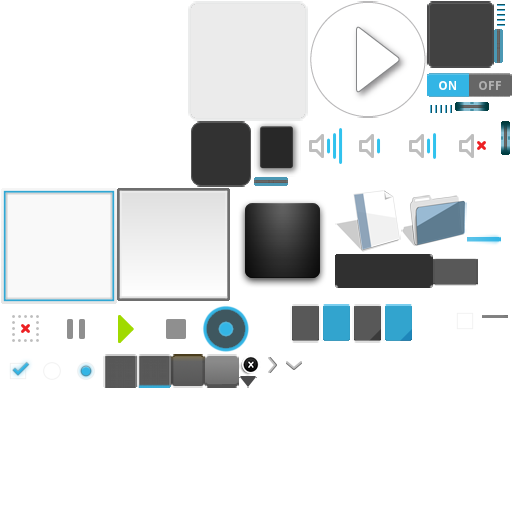
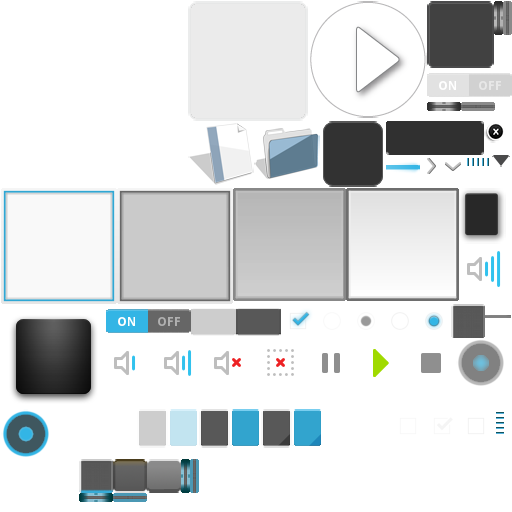
uix: `disabled` property for base widgets

diff --git a/kivy/uix/textinput.py b/kivy/uix/textinput.py
@@ -170,7 +170,7 @@ class TextInputCutCopyPaste(Bubble):
     # copy/cut/paste happen.
 
     textinput = ObjectProperty(None)
-    '''
+    ''' Holds the ref to the TextInput this Bubble belongs to.
     '''
 
     but_cut = ObjectProperty(None)
@@ -819,6 +819,8 @@ class TextInput(Widget):
         Clock.schedule_once(lambda dt: self.select_all())
 
     def on_touch_down(self, touch):
+        if self.disabled:
+            return
         touch_pos = touch.pos
         if not self.collide_point(*touch_pos):
             if self._keyboard_mode == 'multi':
@@ -986,7 +988,7 @@ class TextInput(Widget):
                 Clock.schedule_once(partial(self.on_focus, self, value), 0)
             return
 
-        editable = ((not self.readonly) or
+        editable = (not (self.readonly or self.disabled) or
                     (platform() in ('win', 'linux', 'macosx') and
                     self._keyboard_mode == 'system'))
 
@@ -1901,6 +1903,16 @@ class TextInput(Widget):
     default to 'atlas://data/images/defaulttheme/textinput'
     '''
 
+    background_disabled_normal = StringProperty(
+        'atlas://data/images/defaulttheme/textinput_disabled')
+    '''Background image of the TextInput when disabled'.
+
+    .. versionadded:: 1.7.0
+
+    :data:`background_disabled_normal` is a :class:`~kivy.properties.StringProperty`,
+    default to 'atlas://data/images/defaulttheme/textinput_disabled'
+    '''
+
     background_active = StringProperty(
         'atlas://data/images/defaulttheme/textinput_active')
     '''Background image of the TextInput when it's in focus'.
@@ -1909,6 +1921,16 @@ class TextInput(Widget):
 
     :data:`background_active` is a :class:`~kivy.properties.StringProperty`,
     default to 'atlas://data/images/defaulttheme/textinput_active'
+    '''
+
+    background_disabled_active = StringProperty(
+        'atlas://data/images/defaulttheme/textinput_disabled_active')
+    '''Background image of the TextInput when it's in focus' and disabled.
+
+    .. versionadded:: 1.7.0
+
+    :data:`background_disabled_active` is a :class:`~kivy.properties.StringProperty`,
+    default to 'atlas://data/images/defaulttheme/textinput_disabled_active'
     '''
 
     background_color = ListProperty([1, 1, 1, 1])
@@ -1927,6 +1949,15 @@ class TextInput(Widget):
 
     :data:`foreground_color` is a :class:`~kivy.properties.ListProperty`,
     default to [0, 0, 0, 1] #Black
+    '''
+
+    disabled_foreground_color = ListProperty([0, 0, 0, .5])
+    '''Current color of the foreground, in (r, g, b, a) format when disabled.
+
+    .. versionadded:: 1.7.0
+
+    :data:`disabled_foreground_color` is a :class:`~kivy.properties.ListProperty`,
+    default to [0, 0, 0, 5] # 50% translucent Black
     '''
 
     use_bubble = BooleanProperty(not _is_desktop)
@@ -2065,6 +2096,16 @@ class TextInput(Widget):
 
     .. versionadded:: 1.7.0
     '''
+
+    disabled = BooleanProperty(False)
+    '''indicates whether this widget can interact with input or not
+
+    .. versionadded:: 1.7.0
+
+    :data:`disabled` is a :class:`~kivy.properties.BooleanProperty`,
+    default to False.
+    '''
+
 
 if __name__ == '__main__':
     from kivy.app import App

diff --git a/kivy/uix/splitter.py b/kivy/uix/splitter.py
@@ -49,8 +49,8 @@ if self.horizontal else 'path to vertical pressed image'
 __all__ = ('Splitter', )
 
 from kivy.uix.button import Button
-from kivy.properties import OptionProperty, NumericProperty, ObjectProperty,\
-    ListProperty
+from kivy.properties import (OptionProperty, NumericProperty, ObjectProperty,
+                            ListProperty, BooleanProperty)
 from kivy.uix.boxlayout import BoxLayout
 
 
@@ -73,6 +73,15 @@ class Splitter(BoxLayout):
     .. versionchanged:: 1.6.0
         Added `on_press` and `on_release` events
 
+    '''
+
+    disabled = BooleanProperty(False)
+    '''indicates whether this widget can interact with input or not
+
+    .. versionadded:: 1.7.0
+
+    :data:`disabled` is a :class:`~kivy.properties.BooleanProperty`,
+    default to False.
     '''
 
     border = ListProperty([4, 4, 4, 4])
@@ -138,6 +147,12 @@ class Splitter(BoxLayout):
         sup = super(Splitter, instance)
         _strp = instance._strip
         if _strp:
+            # remove any previous binds
+            _strp.unbind(on_touch_down=instance.strip_down)
+            _strp.unbind(on_touch_move=instance.strip_move)
+            _strp.unbind(on_touch_up=instance.strip_up)
+            self.unbind(disabled = _strp.setter('disabled'))
+
             sup.remove_widget(instance._strip)
         else:
             instance._strip = _strp = instance.strip_cls()
@@ -160,12 +175,11 @@ class Splitter(BoxLayout):
             index = 0
         sup.add_widget(_strp, index)
 
-        _strp.unbind(on_touch_down=instance.strip_down)
-        _strp.unbind(on_touch_move=instance.strip_move)
-        _strp.unbind(on_touch_up=instance.strip_up)
         _strp.bind(on_touch_down=instance.strip_down)
         _strp.bind(on_touch_move=instance.strip_move)
         _strp.bind(on_touch_up=instance.strip_up)
+        _strp.disabled = self.disabled
+        self.bind(disabled=_strp.setter('disabled'))
 
     def add_widget(self, widget, index=0):
         if self._container or not widget:
@@ -192,7 +206,7 @@ class Splitter(BoxLayout):
         self.remove_widget(self._container)
 
     def strip_down(self, instance, touch):
-        if (not self.collide_point(*touch.pos)):
+        if self.disabled or (not instance.collide_point(*touch.pos)):
             return False
         touch.grab(self)
         self.dispatch('on_press')
@@ -201,7 +215,7 @@ class Splitter(BoxLayout):
         pass
 
     def strip_move(self, instance, touch):
-        if touch.grab_current is not self._strip:
+        if touch.grab_current is not instance:
             return False
         sign = 1
         max_size = self.max_size
@@ -236,9 +250,9 @@ class Splitter(BoxLayout):
             self.width = max(min_size, min(width, max_size))
 
     def strip_up(self, instance, touch):
-        if touch.grab_current is not self._strip:
+        if touch.grab_current is not instance:
             return
-        touch.ungrab(self._strip)
+        touch.ungrab(instance)
         self.dispatch('on_release')
 
     def on_release(self):

diff --git a/kivy/uix/slider.py b/kivy/uix/slider.py
@@ -21,14 +21,23 @@ To create a vertical slider::
 __all__ = ('Slider', )
 
 from kivy.uix.widget import Widget
-from kivy.properties import NumericProperty, AliasProperty, OptionProperty, \
-        ReferenceListProperty, BoundedNumericProperty
+from kivy.properties import (NumericProperty, AliasProperty, OptionProperty,
+        ReferenceListProperty, BoundedNumericProperty, BooleanProperty)
 
 
 class Slider(Widget):
     '''Class for creating Slider widget.
 
     Check module documentation for more details.
+    '''
+
+    disabled = BooleanProperty(False)
+    '''indicates whether this widget can interact with input or not.
+
+    .. versionadded:: 1.7.0
+
+    :data:`disabled` is a :class:`~kivy.properties.BooleanProperty`,
+    default to False.
     '''
 
     value = NumericProperty(0.)
@@ -178,26 +187,27 @@ class Slider(Widget):
     '''
 
     def on_touch_down(self, touch):
-        if self.collide_point(*touch.pos):
-            if touch.is_mouse_scrolling:
-                if 'down' in touch.button or 'left' in touch.button:
-                    if self.step:
-                        self.value = min(self.max, self.value + self.step)
-                    else:
-                        self.value = min(
-                            self.max,
-                            self.value + (self.max - self.min) / 20)
-                if 'up' in touch.button or 'right' in touch.button:
-                    if self.step:
-                        self.value = max(self.min, self.value - self.step)
-                    else:
-                        self.value = max(
-                            self.min,
-                            self.value - (self.max - self.min) / 20)
-            else:
-                touch.grab(self)
-                self.value_pos = touch.pos
-            return True
+        if self.disabled or not self.collide_point(*touch.pos):
+            return
+        if touch.is_mouse_scrolling:
+            if 'down' in touch.button or 'left' in touch.button:
+                if self.step:
+                    self.value = min(self.max, self.value + self.step)
+                else:
+                    self.value = min(
+                        self.max,
+                        self.value + (self.max - self.min) / 20)
+            if 'up' in touch.button or 'right' in touch.button:
+                if self.step:
+                    self.value = max(self.min, self.value - self.step)
+                else:
+                    self.value = max(
+                        self.min,
+                        self.value - (self.max - self.min) / 20)
+        else:
+            touch.grab(self)
+            self.value_pos = touch.pos
+        return True
 
     def on_touch_move(self, touch):
         if touch.grab_current == self:

diff --git a/kivy/uix/button.py b/kivy/uix/button.py
@@ -36,7 +36,8 @@ to the :data:`Button.state` property::
 __all__ = ('Button', )
 
 from kivy.uix.label import Label
-from kivy.properties import OptionProperty, StringProperty, ListProperty
+from kivy.properties import (OptionProperty, StringProperty, ListProperty,
+                            BooleanProperty)
 
 
 class Button(Label):
@@ -48,6 +49,25 @@ class Button(Label):
         `on_release`
             Fired when the button is released (i.e., the touch/click that
             pressed the button goes away).
+    '''
+
+
+    disabled = BooleanProperty(False)
+    '''indicates whether this widget can interact with input or not
+
+    .. versionadded:: 1.7.0
+
+    :data:`disabled` is a :class:`~kivy.properties.BooleanProperty`,
+    default to False.
+    '''
+
+    disabled_color = ListProperty([1, 1, 1, .3])
+    '''Text color, in the format (r, g, b, a)
+
+    .. versionadded:: 1.7.0
+
+    :data:`disabled_color` is a :class:`~kivy.properties.ListProperty`, default to [1, 1,
+    1, .5].
     '''
 
     state = OptionProperty('normal', options=('normal', 'down'))
@@ -89,6 +109,28 @@ class Button(Label):
     default to 'atlas://data/images/defaulttheme/button_pressed'
     '''
 
+    background_disabled_normal = StringProperty(
+        'atlas://data/images/defaulttheme/button_disabled')
+    '''Background image of the button used for default graphical representation,
+    when the button is not pressed.
+
+    .. versionadded:: 1.7.0
+
+    :data:`background_normal` is an :class:`~kivy.properties.StringProperty`,
+    default to 'atlas://data/images/defaulttheme/button_disabled'
+    '''
+
+    background_disabled_down = StringProperty(
+        'atlas://data/images/defaulttheme/button_disabled_pressed')
+    '''Background image of the button used for default graphical representation,
+    when the button is pressed.
+
+    .. versionadded:: 1.7.0
+
+    :data:`background_down` is an :class:`~kivy.properties.StringProperty`,
+    default to 'atlas://data/images/defaulttheme/button_disabled_pressed'
+    '''
+
     border = ListProperty([16, 16, 16, 16])
     '''Border used for :class:`~kivy.graphics.vertex_instructions.BorderImage`
     graphics instruction. Used with :data:`background_normal` and
@@ -110,6 +152,8 @@ class Button(Label):
         self.state = 'normal'
 
     def on_touch_down(self, touch):
+        if self.disabled:
+            return
         if super(Button, self).on_touch_down(touch):
             return True
         if touch.is_mouse_scrolling:

diff --git a/kivy/uix/switch.py b/kivy/uix/switch.py
@@ -45,6 +45,14 @@ from kivy.properties import BooleanProperty, ObjectProperty, NumericProperty
 class Switch(Widget):
     '''Switch class. See module documentation for more information.
     '''
+    disabled = BooleanProperty(False)
+    '''indicates whether this widget can interact with input or not
+
+    .. versionadded:: 1.7.0
+
+    :data:`disabled` is a :class:`~kivy.properties.BooleanProperty`,
+    default to False.
+    '''
 
     active = BooleanProperty(False)
     '''Indicate if the switch is active or inactive.
@@ -78,7 +86,7 @@ class Switch(Widget):
     '''
 
     def on_touch_down(self, touch):
-        if self.touch_control is not None:
+        if self.disabled or self.touch_control is not None:
             return
         if not self.collide_point(*touch.pos):
             return

diff --git a/kivy/uix/checkbox.py b/kivy/uix/checkbox.py
@@ -39,6 +39,15 @@ class CheckBox(Widget):
     '''CheckXox class, see module documentation for more information.
     '''
 
+    disabled = BooleanProperty(False)
+    '''indicates whether this widget can interact with input or not.
+
+    .. versionadded:: 1.7.0
+
+    :data:`disabled` is a :class:`~kivy.properties.BooleanProperty`,
+    default to False.
+    '''
+
     active = BooleanProperty(False)
     '''Indicates if the switch is active or inactive.
 
@@ -91,7 +100,7 @@ class CheckBox(Widget):
         self.active = not self.active
 
     def on_touch_down(self, touch):
-        if not self.collide_point(*touch.pos):
+        if self.disabled or not self.collide_point(*touch.pos):
             return
         self._toggle_active()
         return True

diff --git a/kivy/uix/widget.py b/kivy/uix/widget.py
@@ -567,7 +567,7 @@ class Widget(EventDispatcher):
     '''This is a Dictionary of id's defined in your kv language. This will only
     be populated if you use id's in your kv language code.
 
-    .. versionadded:: 1.6.0
+    .. versionadded:: 1.7.0
 
     :data:`ids` is a :class:`~kivy.properties.DictProperty`, defaults to a empty
     dict {}.
